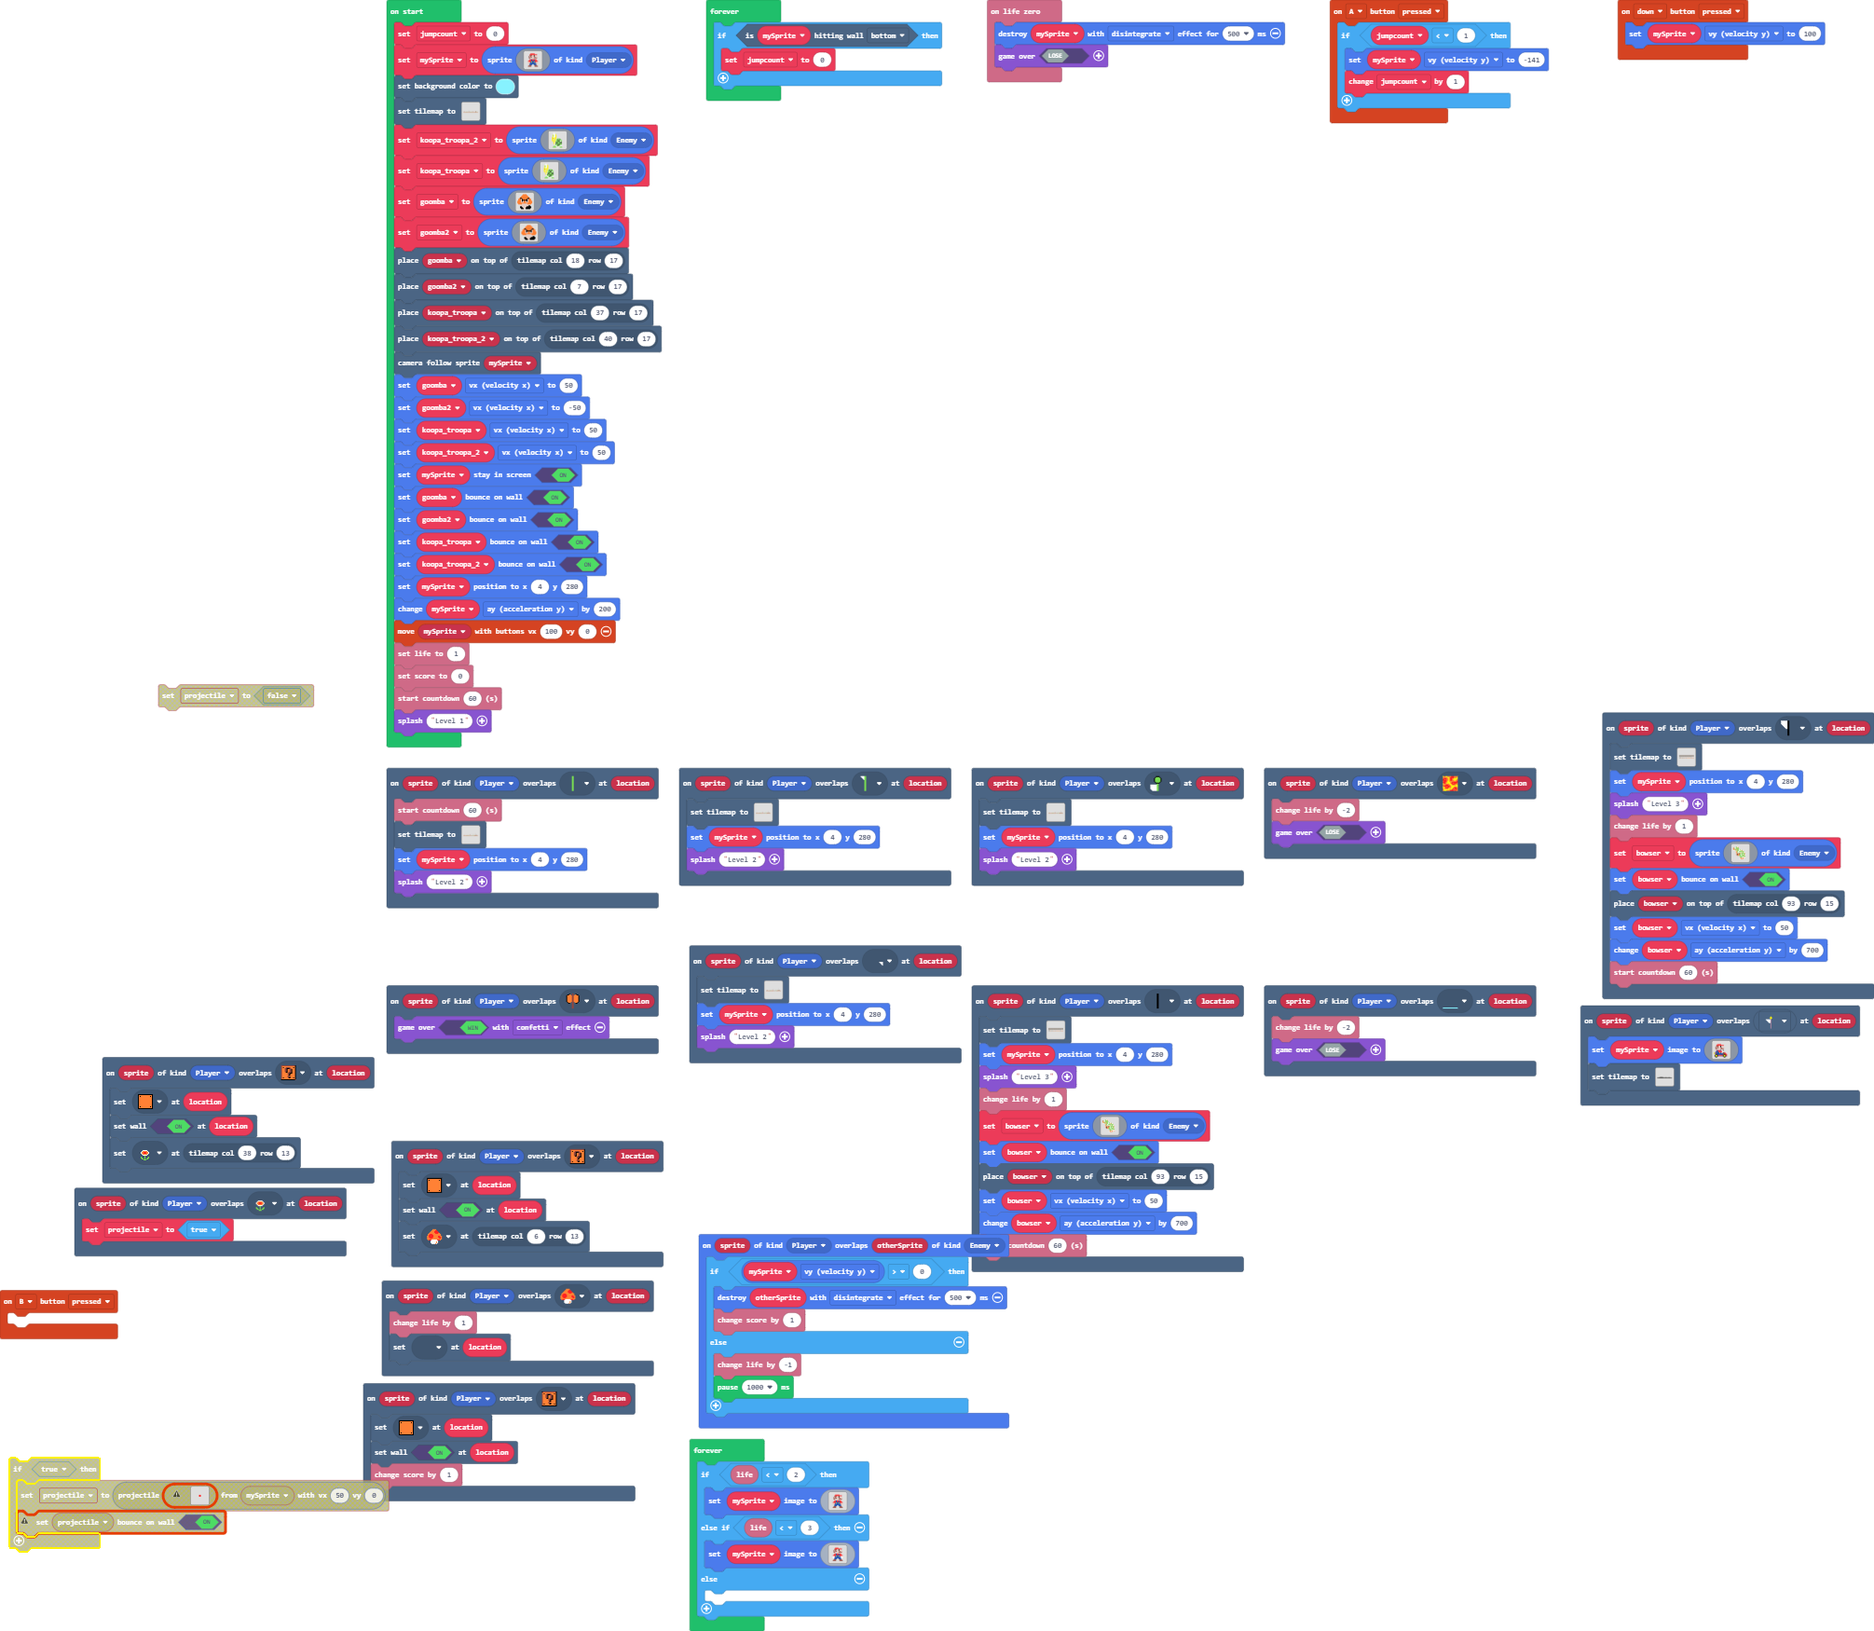
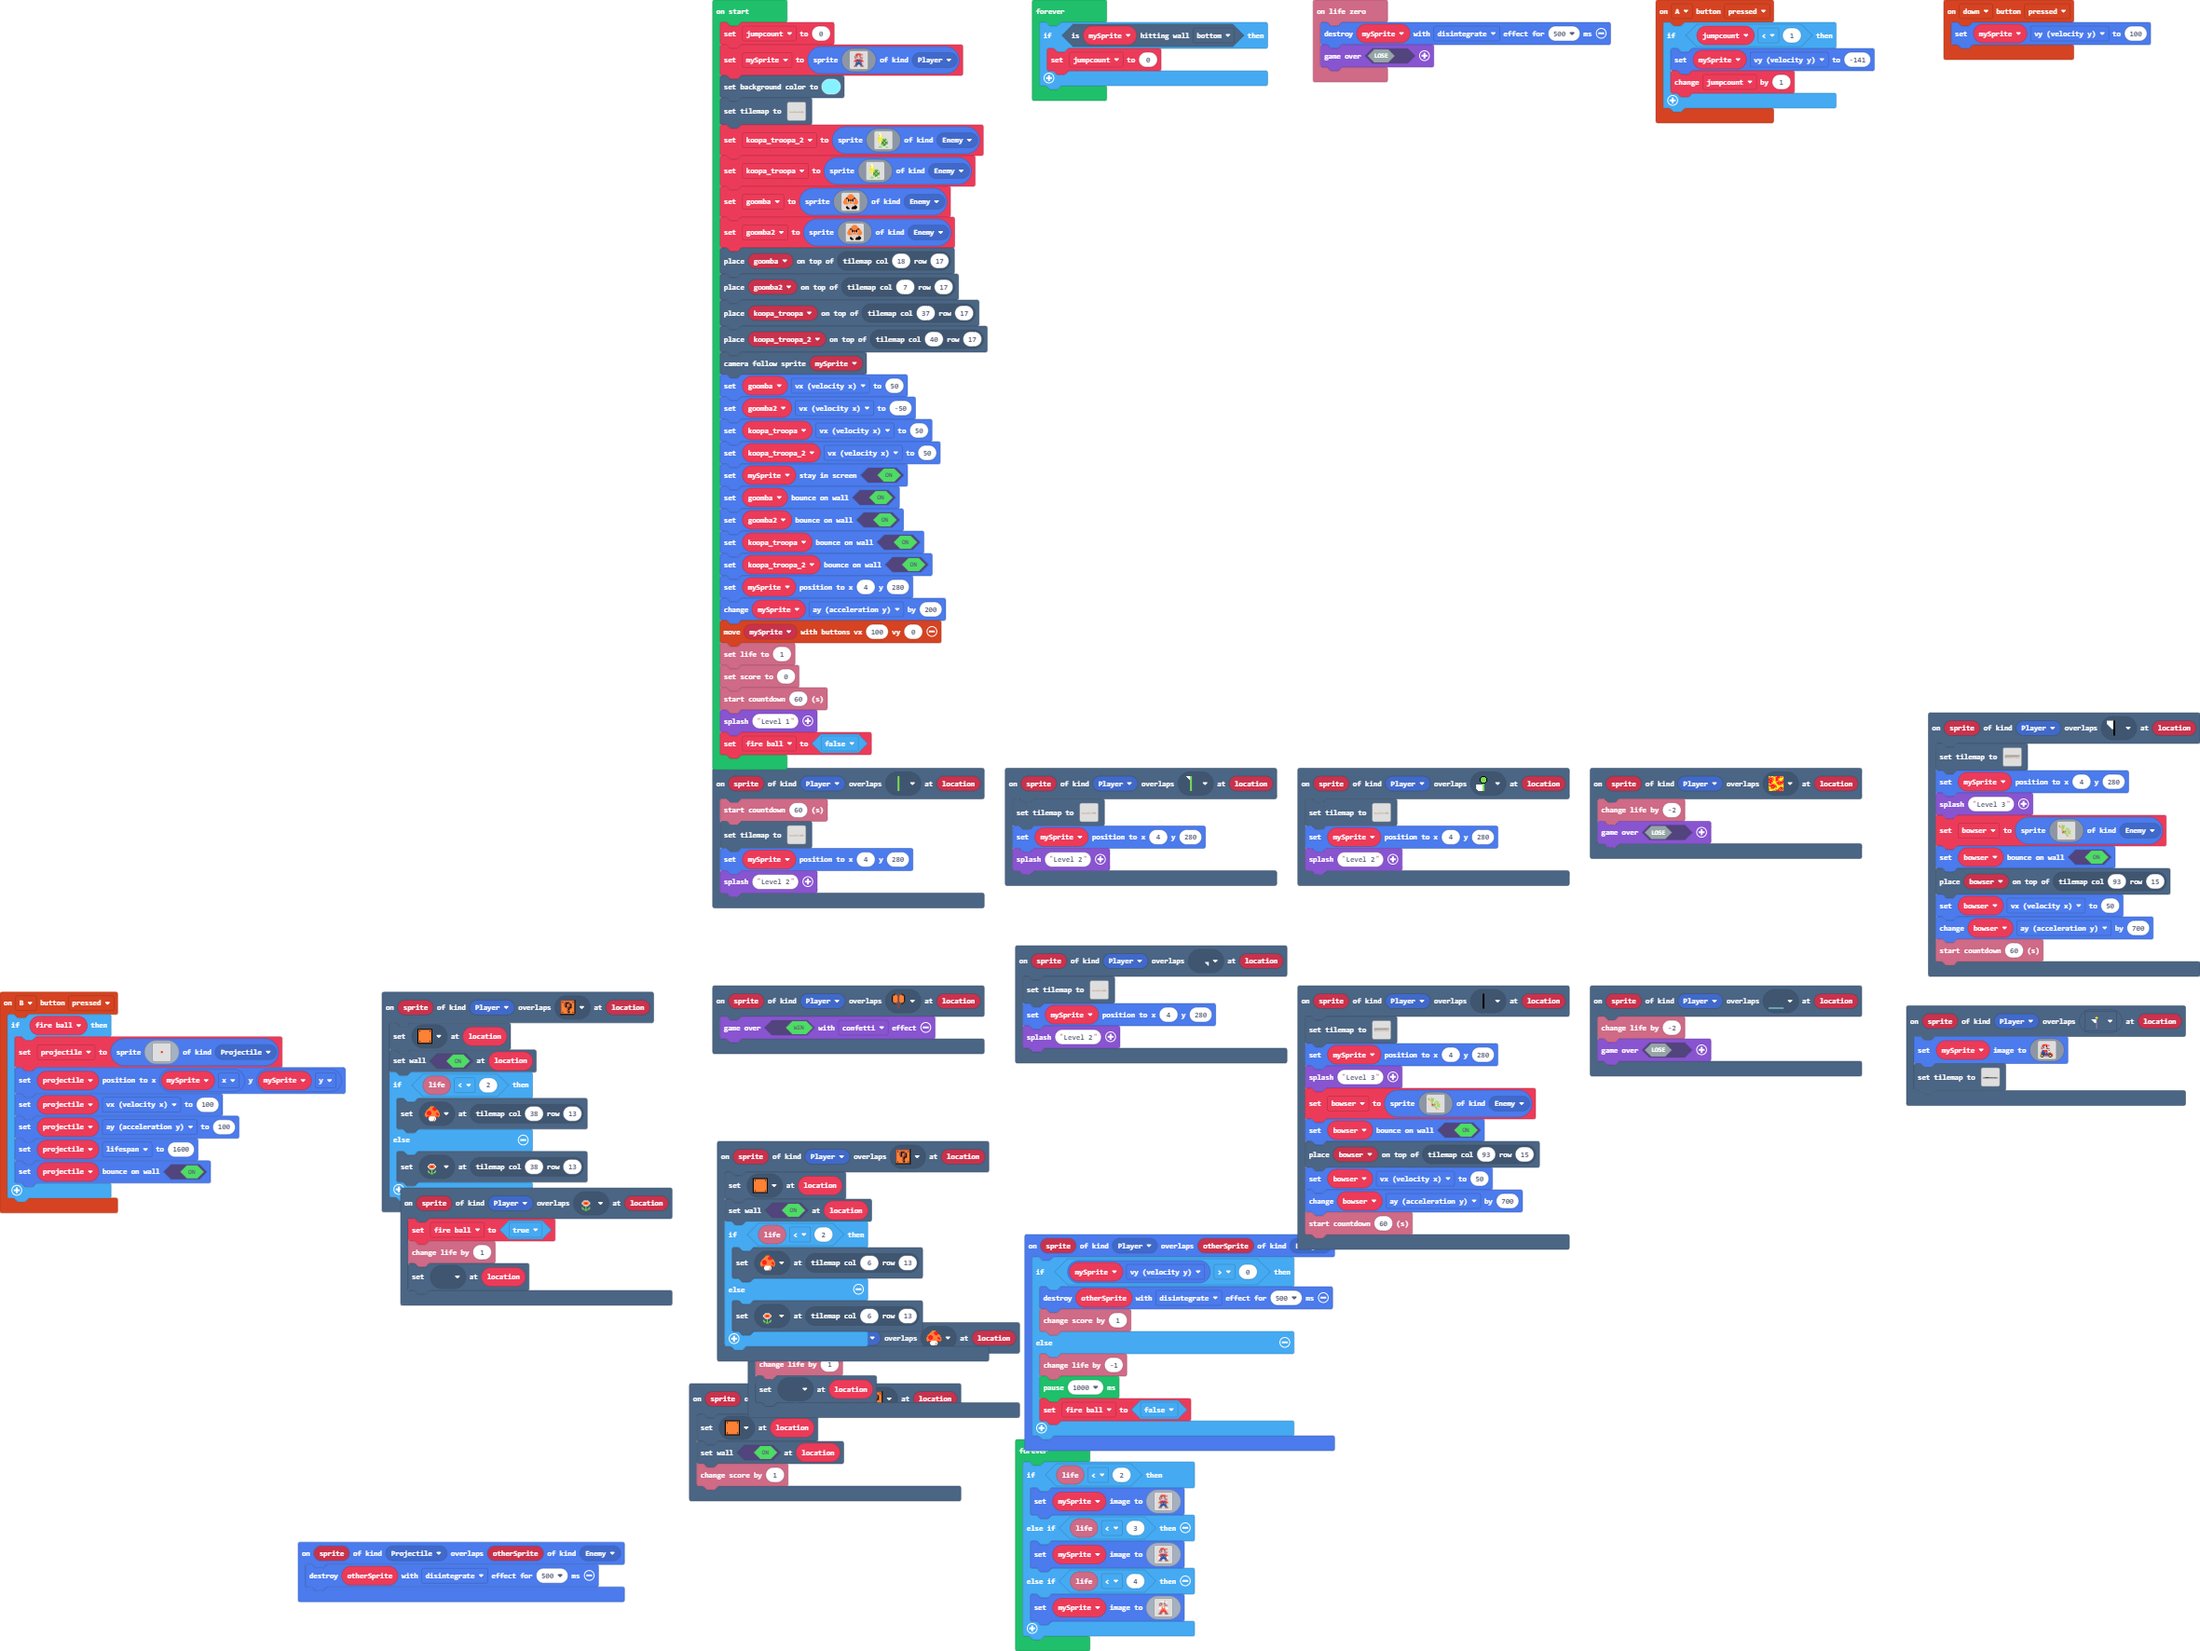
Update main.blocks, main.ts, tilemap.g.jres, tilemap.g.ts

diff --git a/tilemap.g.ts b/tilemap.g.ts
@@ -437,29 +437,6 @@ namespace myTiles {
 . . . . . . . . . . . . . . . . 
 . . . . . . . . . . . . . . . . 
 `, [myTiles.transparency16], TileScale.Sixteen);
-            case "level3":
[1 lines of base64/hex data omitted]
-....................................................................................................
-....................................................................................................
-....................................................................................................
-....................................................................................................
-...........................................................................................222222222
-..............................................................................22222222222222........
-222..........................................................22222222222222222......................
-222222222222222222222222222222222222222.....222222222222222222......................................
-222222222222222222222222222222222222222222222.......................................................
-222222222222222222222222222222222222222222222.......................................................
-....................................2.2.............................................................
-....................................................................................................
-....................................................................................22..............
-...................................................................................222..............
-.....2.22................2.........2.2.2.......................2.222..............2222..............
-.....................2...2....................2....2....2........................22222..............
-.................2...2...2....................2....2....2.......................222222..............
-.................2...2...2....................2....2....2......................2222222.....2........
-2222222222222222222222222222222222222222222222222222222222222222222222222222222222222222222222222222
-2222222222222222222222222222222222222222222222222222222222222222222222222222222222222222222222222222
-`, [myTiles.transparency16,myTiles.tile2,myTiles.tile3,myTiles.tile4,myTiles.tile5,myTiles.tile6,myTiles.tile7,myTiles.tile9,myTiles.tile10,myTiles.tile11,myTiles.tile23,myTiles.tile29,myTiles.tile30], TileScale.Sixteen);
             case "level21":
             case "level21":return tiles.createTilemap(hex`1000100000000000000000000000000000000000000000000000000000000000000000000000000000000000000000000000000000000000000000000000000000000000000000000000000000000000000000000000000000000000000000000000000000000000000000000000000000000000000000000000000000000000000000000000000000000000000000000000000000000000000000000000000000000000000000000000000000000000000000000000000000000000000000000000000000000000000000000000000000000000000000000000000000000000000000000000000000000000000000000000000000000000000000000000000000000000`, img`
 . . . . . . . . . . . . . . . . 
@@ -498,6 +475,29 @@ namespace myTiles {
 . . . . . . . . . . . . . . . . 
 . . . . . . . . . . . . . . . . 
 `, [myTiles.transparency16], TileScale.Sixteen);
+            case "level3":
[1 lines of base64/hex data omitted]
+....................................................................................................
+....................................................................................................
+....................................................................................................
+....................................................................................................
+...........................................................................................222222222
+..............................................................................22222222222222........
+222..........................................................22222222222222222......................
+222222222222222222222222222222222222222.....222222222222222222......................................
+222222222222222222222222222222222222222222222.......................................................
+222222222222222222222222222222222222222222222.......................................................
+....................................2.2.............................................................
+....................................................................................................
+....................................................................................22..............
+...................................................................................222..............
+.....2.22................2.........2.2.2.......................2.222..............2222..............
+.....................2...2....................2....2....2........................22222..............
+.................2...2...2....................2....2....2.......................222222..............
+............22...2...2...2....................2....2....2......................2222222.....2........
+2222222222222222222222222222222222222222222222222222222222222222222222222222222222222222222222222222
+2222222222222222222222222222222222222222222222222222222222222222222222222222222222222222222222222222
+`, [myTiles.transparency16,myTiles.tile2,myTiles.tile3,myTiles.tile4,myTiles.tile5,myTiles.tile6,myTiles.tile7,myTiles.tile9,myTiles.tile10,myTiles.tile11,myTiles.tile23,myTiles.tile30], TileScale.Sixteen);
         }
         return null;
     })

diff --git a/main.ts b/main.ts
@@ -7,7 +7,31 @@ scene.onOverlapTile(SpriteKind.Player, assets.tile`myTile0`, function (sprite, l
     info.changeScoreBy(1)
 })
 controller.B.onEvent(ControllerButtonEvent.Pressed, function () {
-	
+    if (fire_ball) {
+        projectile = sprites.create(img`
+            . . . . . . . . . . . . . . . . 
+            . . . . . . . . . . . . . . . . 
+            . . . . . . . . . . . . . . . . 
+            . . . . . . . . . . . . . . . . 
+            . . . . . . . . . . . . . . . . 
+            . . . . . . . . . . . . . . . . 
+            . . . . . . . . . . . . . . . . 
+            . . . . . . . 2 2 . . . . . . . 
+            . . . . . . . 2 2 . . . . . . . 
+            . . . . . . . . . . . . . . . . 
+            . . . . . . . . . . . . . . . . 
+            . . . . . . . . . . . . . . . . 
+            . . . . . . . . . . . . . . . . 
+            . . . . . . . . . . . . . . . . 
+            . . . . . . . . . . . . . . . . 
+            . . . . . . . . . . . . . . . . 
+            `, SpriteKind.Projectile)
+        projectile.setPosition(mySprite.x, mySprite.y)
+        projectile.vx = 100
+        projectile.ay = 100
+        projectile.lifespan = 1600
+        projectile.setBounceOnWall(true)
+    }
 })
 scene.onOverlapTile(SpriteKind.Player, assets.tile`myTile22`, function (sprite, location) {
     info.changeLifeBy(1)
@@ -37,13 +61,16 @@ scene.onOverlapTile(SpriteKind.Player, assets.tile`myTile18`, function (sprite, 
 scene.onOverlapTile(SpriteKind.Player, assets.tile`myTile21`, function (sprite, location) {
     tiles.setTileAt(location, assets.tile`myTile`)
     tiles.setWallAt(location, true)
-    tiles.setTileAt(tiles.getTileLocation(6, 13), assets.tile`myTile22`)
+    if (info.life() < 2) {
+        tiles.setTileAt(tiles.getTileLocation(6, 13), assets.tile`myTile22`)
+    } else {
+        tiles.setTileAt(tiles.getTileLocation(6, 13), assets.tile`myTile26`)
+    }
 })
 scene.onOverlapTile(SpriteKind.Player, assets.tile`myTile16`, function (sprite, location) {
     tiles.setTilemap(tilemap`level15`)
     mySprite.setPosition(4, 280)
     game.splash("Level 3")
-    info.changeLifeBy(1)
     bowser = sprites.create(img`
         ......................................
         ............111.......................
@@ -107,6 +134,9 @@ scene.onOverlapTile(SpriteKind.Player, assets.tile`myTile10`, function (sprite, 
     mySprite.setPosition(4, 280)
     game.splash("Level 2")
 })
+sprites.onOverlap(SpriteKind.Projectile, SpriteKind.Enemy, function (sprite, otherSprite) {
+    otherSprite.destroy(effects.disintegrate, 500)
+})
 scene.onOverlapTile(SpriteKind.Player, assets.tile`myTile23`, function (sprite, location) {
     mySprite.setImage(img`
         ..................
@@ -134,7 +164,6 @@ scene.onOverlapTile(SpriteKind.Player, assets.tile`myTile14`, function (sprite, 
     tiles.setTilemap(tilemap`level15`)
     mySprite.setPosition(4, 280)
     game.splash("Level 3")
-    info.changeLifeBy(1)
     bowser = sprites.create(img`
         ......................................
         ............111.......................
@@ -183,12 +212,18 @@ scene.onOverlapTile(SpriteKind.Player, assets.tile`myTile11`, function (sprite, 
     game.over(false)
 })
 scene.onOverlapTile(SpriteKind.Player, assets.tile`myTile26`, function (sprite, location) {
-    projectile = true
+    fire_ball = true
+    info.changeLifeBy(1)
+    tiles.setTileAt(location, assets.tile`myTile19`)
 })
 scene.onOverlapTile(SpriteKind.Player, assets.tile`myTile28`, function (sprite, location) {
     tiles.setTileAt(location, assets.tile`myTile`)
     tiles.setWallAt(location, true)
-    tiles.setTileAt(tiles.getTileLocation(38, 13), assets.tile`myTile26`)
+    if (info.life() < 2) {
+        tiles.setTileAt(tiles.getTileLocation(38, 13), assets.tile`myTile22`)
+    } else {
+        tiles.setTileAt(tiles.getTileLocation(38, 13), assets.tile`myTile26`)
+    }
 })
 sprites.onOverlap(SpriteKind.Player, SpriteKind.Enemy, function (sprite, otherSprite) {
     if (mySprite.vy > 0) {
@@ -197,10 +232,12 @@ sprites.onOverlap(SpriteKind.Player, SpriteKind.Enemy, function (sprite, otherSp
     } else {
         info.changeLifeBy(-1)
         pause(1000)
+        fire_ball = false
     }
 })
-let projectile = false
 let bowser: Sprite = null
+let projectile: Sprite = null
+let fire_ball = false
 let mySprite: Sprite = null
 let jumpcount = 0
 jumpcount = 0
@@ -333,6 +370,7 @@ info.setLife(1)
 info.setScore(0)
 info.startCountdown(60)
 game.splash("Level 1")
+fire_ball = false
 forever(function () {
     if (mySprite.isHittingTile(CollisionDirection.Bottom)) {
         jumpcount = 0
@@ -381,7 +419,26 @@ forever(function () {
             ...eeee....eeee...
             ..................
             `)
-    } else {
-    	
+    } else if (info.life() < 4) {
+        mySprite.setImage(img`
+            ..................
+            ......11112.......
+            .....111111111....
+            .....eeeddfd......
+            ....ededddfddd....
+            ....edeedddeddd...
+            ....eeddddeeee....
+            ......ddddddd.....
+            .....11211211.....
+            ....1112112111....
+            ...111122221111...
+            ...dd12522521dd...
+            ...ddd222222ddd...
+            ...dd22222222dd...
+            .....222..222.....
+            ....eee....eee....
+            ...eeee....eeee...
+            ..................
+            `)
     }
 })
